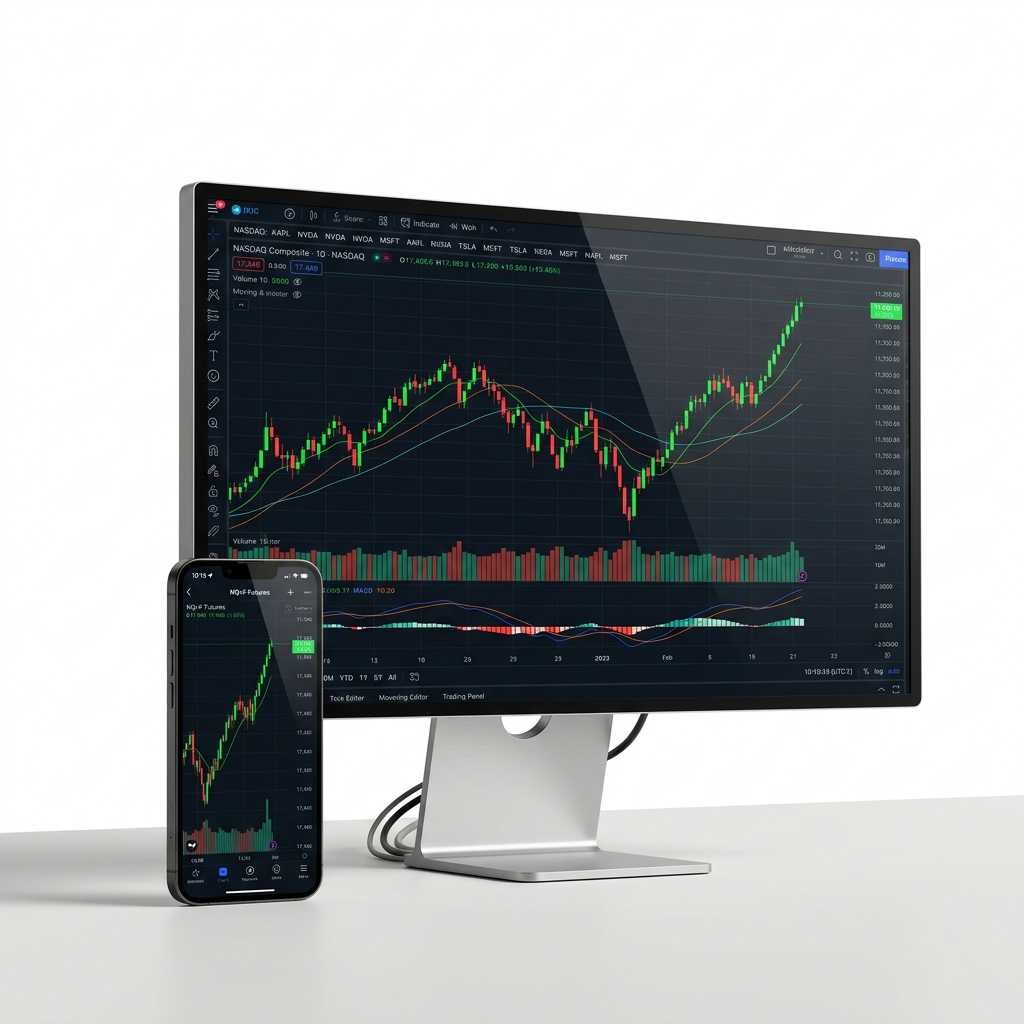
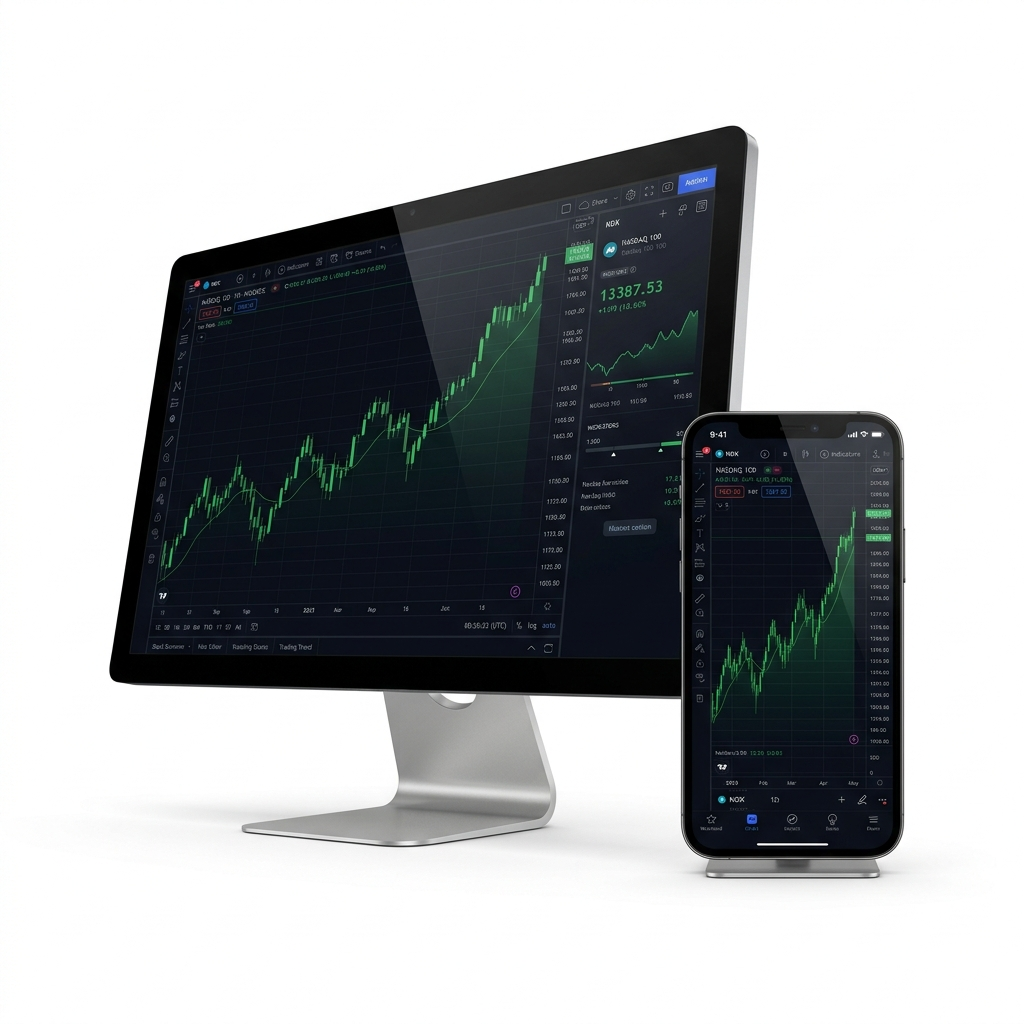
Integración Monitor Transparente Izquierda

diff --git a/src/components/landing/HeroSection.tsx b/src/components/landing/HeroSection.tsx
@@ -56,7 +56,7 @@ export function HeroSection() {
 
           {/* Hero Devices Image */}
           <div className="relative flex justify-center items-center lg:justify-end">
-            <img src={heroDevices} alt="Plataforma de Trading NQkey" className="w-full max-w-[500px] lg:max-w-[600px] h-auto object-contain drop-shadow-2xl hover:scale-105 transition-transform duration-700" />
+            <img src={heroDevices} alt="Plataforma de Trading NQkey" className="w-full max-w-[500px] lg:max-w-[600px] h-auto object-contain mix-blend-multiply drop-shadow-2xl hover:scale-105 transition-transform duration-700" />
           </div>
         </div>
 